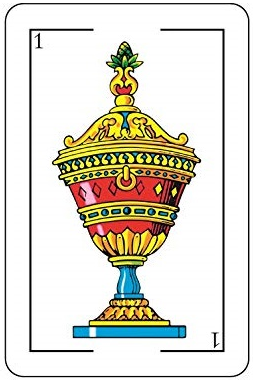
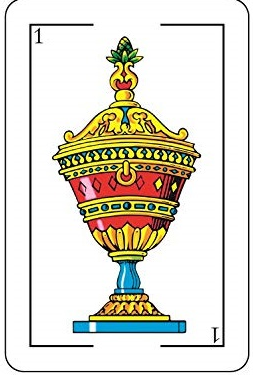
feat: update Home component with card groups and improve layout

diff --git a/src/app/routes/Home/Home.jsx b/src/app/routes/Home/Home.jsx
@@ -1,17 +1,42 @@
 import { Link } from 'react-router-dom';
+import card1Ouro from '@/assets/cards/spanish/1ouro.jpg';
+import card2Espada from '@/assets/cards/spanish/2espada.jpg';
+import card3Paus from '@/assets/cards/spanish/3paus.jpg';
+import frenchCard1Ouro from '@/assets/cards/french/1ouro.png';
+import frenchCard2Espada from '@/assets/cards/french/2espada.png';
+import frenchCard3Paus from '@/assets/cards/french/3paus.png';
 import gameBg from '@/assets/videos/game-bg.mp4';
 import { LoginCard } from '@/components/auth/LoginCard.jsx';
 import { VideoText } from '@/components/ui/video-text.jsx';
 import { pageLinks } from '../pageLinks.js';
 
+const cardGroups = [
+  {
+    title: 'Spanish',
+    cards: [
+      { src: card1Ouro, label: '1 de ouro espanhol' },
+      { src: card2Espada, label: '2 de espada espanhol' },
+      { src: card3Paus, label: '3 de paus espanhol' },
+    ],
+  },
+  {
+    title: 'French',
+    cards: [
+      { src: frenchCard1Ouro, label: '1 de ouro frances' },
+      { src: frenchCard2Espada, label: '2 de espada frances' },
+      { src: frenchCard3Paus, label: '3 de paus frances' },
+    ],
+  },
+];
+
 export function Home() {
   return (
-    <main className="min-h-screen overflow-hidden px-6 py-8">
-      <section className="mx-auto flex w-full max-w-6xl flex-col gap-10">
-        <div className="relative overflow-hidden rounded-lg border border-border bg-card p-8 shadow-sm md:p-10">
+    <main className="min-h-screen overflow-hidden px-4 py-6 md:px-6 lg:h-screen lg:px-6 lg:py-5">
+      <section className="mx-auto flex w-full max-w-6xl flex-col gap-6 lg:h-full lg:max-w-7xl lg:gap-5">
+        <div className="relative overflow-hidden rounded-lg border border-border bg-card p-6 shadow-sm md:p-8 lg:p-5">
           <div className="absolute inset-0 bg-[radial-gradient(circle_at_top_right,rgba(99,102,241,0.2),transparent_35%),radial-gradient(circle_at_bottom_left,rgba(14,165,233,0.18),transparent_30%)]" />
           <div className="relative">
-            <div className="relative mt-4 hidden h-44 w-full overflow-hidden md:block">
+            <div className="relative mt-3 hidden h-36 w-full overflow-hidden md:block lg:h-32 xl:h-42">
               <VideoText
                 src={gameBg}
                 fontSize={13}
@@ -21,7 +46,7 @@ export function Home() {
                 Oh Hell Game
               </VideoText>
             </div>
-            <div className="relative mt-4 grid gap-1 md:hidden">
+            <div className="relative mt-8 grid gap-1 md:hidden">
               <div className="h-24 overflow-hidden">
                 <VideoText
                   src={gameBg}
@@ -43,17 +68,42 @@ export function Home() {
                 </VideoText>
               </div>
             </div>
-            <p className="mt-5 max-w-2xl text-lg leading-8 text-muted-foreground">
-              Escolha uma area para entrar na partida, criar salas, estudar as
-              regras ou acompanhar a lideranca.
+            <p className="mt-4 max-w-3xl text-base leading-7 text-muted-foreground md:text-lg md:leading-8 lg:mt-3 lg:text-base lg:leading-6">
+              Fodinha, also known as Oh Hell, is a classic trick-taking card game. Predict your wins, outsmart your friends, and have fun online!
             </p>
+
+            <section className="mt-5 rounded-lg border border-border bg-background/55 p-4 shadow-lg shadow-black/10 backdrop-blur lg:mt-4 lg:p-3">
+              <div className="grid gap-4 md:grid-cols-2 lg:gap-3">
+                {cardGroups.map((group) => (
+                  <div
+                    key={group.title}
+                    className="overflow-hidden px-4 pt-1"
+                  >
+                    <div className="flex h-[8.5rem] items-start justify-center px-2 pt-2 md:h-36 lg:h-28 xl:h-32">
+                      {group.cards.map((card, index) => (
+                        <img
+                          key={card.label}
+                          src={card.src}
+                          alt={card.label}
+                          className="relative h-[12.65rem] w-[8.05rem] shrink-0 rounded-[8%] border border-black bg-card object-cover shadow-xl transition duration-200 hover:z-20 hover:-translate-y-5 hover:rotate-0 hover:scale-105 hover:shadow-2xl lg:h-[10.35rem] lg:w-[6.9rem] xl:h-[11.5rem] xl:w-[7.5rem]"
+                          style={{
+                            marginLeft: index === 0 ? 0 : '-2.75rem',
+                            rotate: `${(index - 1) * 4.4}deg`,
+                          }}
+                        />
+                      ))}
+                    </div>
+                  </div>
+                ))}
+              </div>
+            </section>
           </div>
         </div>
 
-        <div className="grid gap-6 lg:grid-cols-[360px_1fr] lg:items-start">
-          <LoginCard />
+        <div className="grid gap-6 lg:grid-cols-[320px_1fr] lg:items-start lg:gap-5">
+          <LoginCard className="lg:p-5" />
 
-          <nav className="grid gap-4 md:grid-cols-2">
+          <nav className="grid gap-4 md:grid-cols-2 lg:grid-cols-3 lg:gap-3">
             {pageLinks.map((page) => {
               const Icon = page.icon;
 
@@ -61,17 +111,17 @@ export function Home() {
                 <Link
                   key={page.path}
                   to={page.path}
-                  className="group rounded-lg border border-border bg-card p-6 shadow-sm transition hover:-translate-y-0.5 hover:border-primary/40 hover:shadow-md focus:outline-none focus:ring-2 focus:ring-ring focus:ring-offset-2 focus:ring-offset-background"
+                  className="group rounded-lg border border-border bg-card p-6 shadow-sm transition hover:-translate-y-0.5 hover:border-primary/40 hover:shadow-md focus:outline-none focus:ring-2 focus:ring-ring focus:ring-offset-2 focus:ring-offset-background lg:p-4"
                 >
                   <span className="flex items-center gap-3">
-                    <span className="grid size-11 shrink-0 place-items-center rounded-md bg-secondary text-secondary-foreground transition group-hover:bg-primary group-hover:text-primary-foreground">
-                      <Icon className="size-5" />
+                    <span className="grid size-11 shrink-0 place-items-center rounded-md bg-secondary text-secondary-foreground transition group-hover:bg-primary group-hover:text-primary-foreground lg:size-9">
+                      <Icon className="size-5 lg:size-4" />
                     </span>
-                    <span className="text-xl font-bold text-foreground">
+                    <span className="text-xl font-bold text-foreground lg:text-base">
                       {page.label}
                     </span>
                   </span>
-                  <span className="mt-4 block text-sm leading-6 text-muted-foreground">
+                  <span className="mt-4 block text-sm leading-6 text-muted-foreground lg:mt-3 lg:text-xs lg:leading-5">
                     {page.description}
                   </span>
                 </Link>